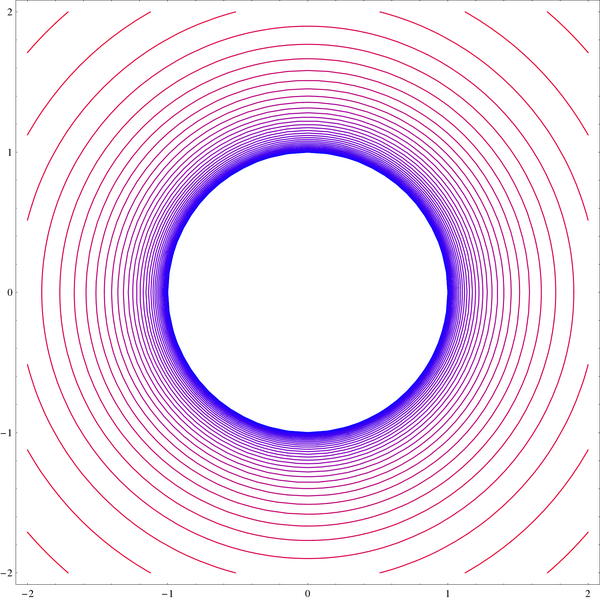
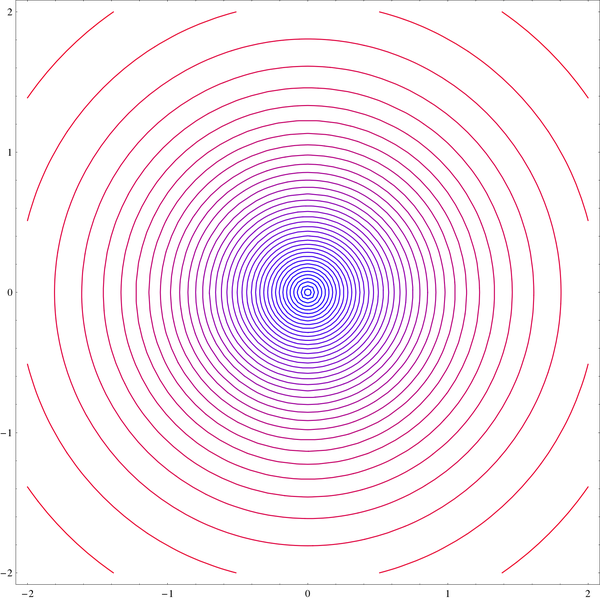
Fixed typo in mathematica code and remade pictures

diff --git a/images/stereographic.m b/images/stereographic.m
@@ -14,7 +14,7 @@ ball = Show[
      ContourStyle -> colour[r]], {r, 0, 1, 1/contours}], 
    ImageSize -> imagesize];
 plane = Show[
-   Table[ContourPlot[x^2 + y^2 == 1/(1 - r^2), {x, -2, 2}, {y, -2, 2},
+   Table[ContourPlot[x^2 + y^2 == r^2/(1 - r^2), {x, -2, 2}, {y, -2, 2},
       ContourStyle -> colour[r]], {r, 0, 1 - 1/contours, 1/contours}],
     ImageSize -> imagesize];
 sphere = Show[
